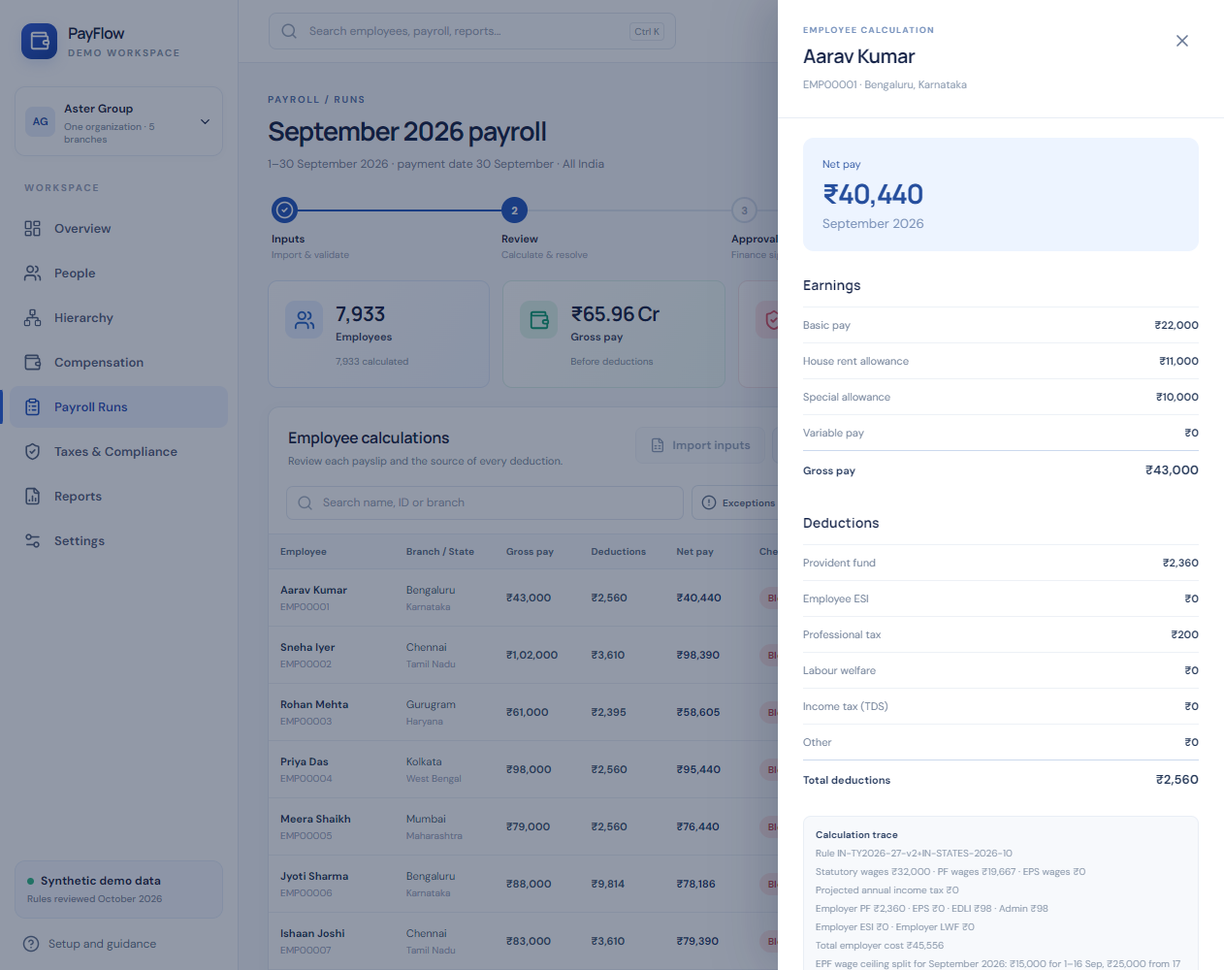
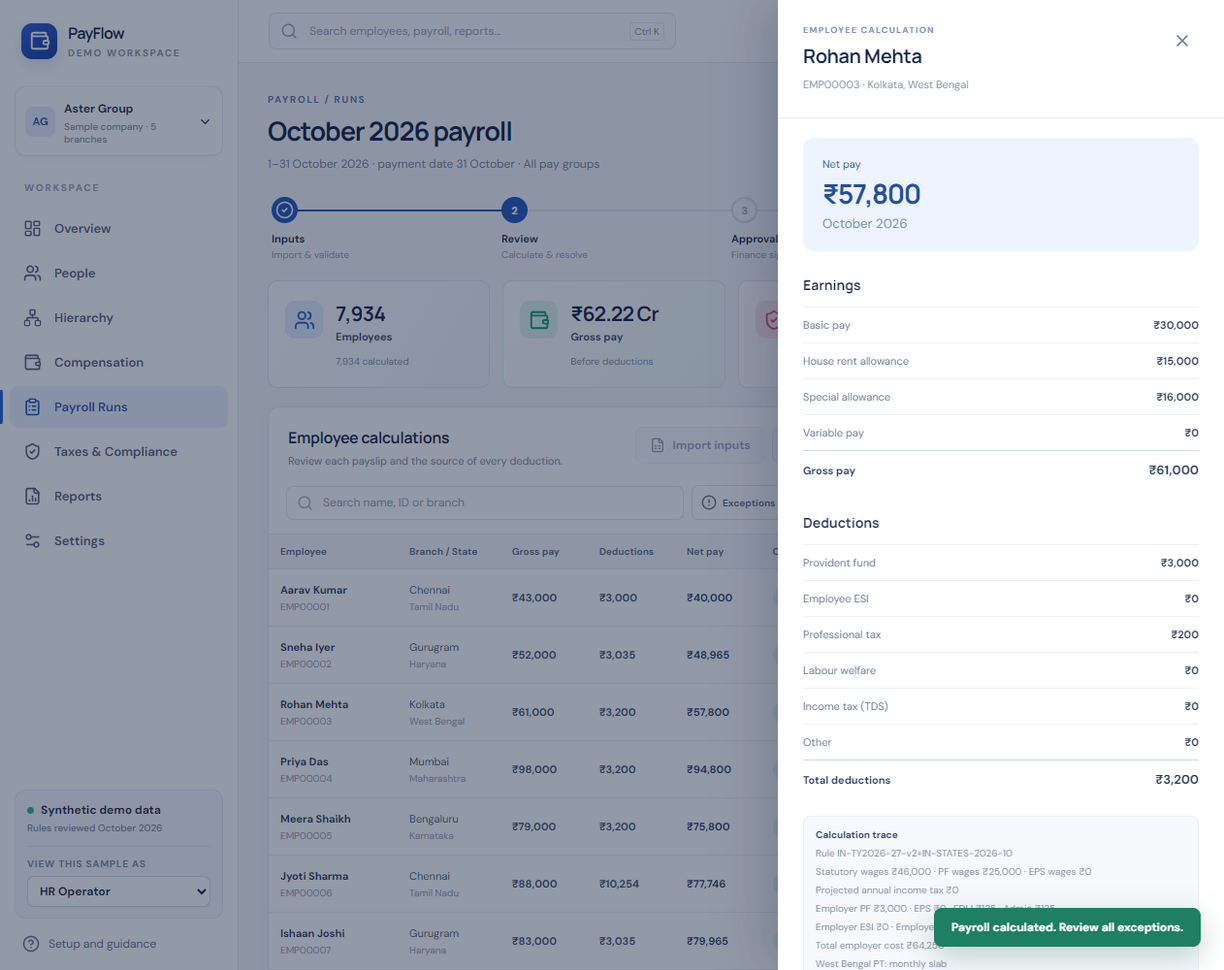
docs: document Phase 2 and the pay period compliance rules

diff --git a/README.md b/README.md
@@ -2,10 +2,11 @@
 
 [![CI](https://github.com/mehulp007/PayFlow/actions/workflows/ci.yml/badge.svg)](https://github.com/mehulp007/PayFlow/actions/workflows/ci.yml)
 
-PayFlow is a full-stack payroll application for Indian companies. It covers the whole monthly cycle: employee
-records and hierarchy, CSV input import with validation, salary calculation (income tax, EPF, ESI and state
-deductions), exception review, maker-checker approval, payslips, statutory preparation reports and an audit trail.
-Employees get a self-service portal for their own record, tax-regime choice and payslip.
+PayFlow is a multi-tenant payroll application for Indian companies. Anyone can sign up and create an organization —
+empty, or pre-filled with a generated sample company — and run the whole monthly cycle: employee records and
+hierarchy, salary revisions, pay periods, CSV input import, calculation (income tax, EPF, ESI and state deductions),
+exception review, maker-checker approval, payment, period close, payslips, statutory preparation reports and an
+audit trail. Employees get a self-service portal for their own record, tax-regime choice and payslips.
 
 > **Synthetic data only.** PayFlow is a portfolio project. Its rules were reviewed against Indian regulations in
 > October 2026, but it is not a certified payroll product and its exports are not government or bank upload
@@ -22,9 +23,94 @@ PayFlow is being rebuilt from its first prototype in phases. Each phase is commi
 | 0 · Baseline & cleanup     | Rebrand to PayFlow, remove hosting/mobile code, run locally with zero setup                                                                                            | ✅ Done |
 | Compliance review          | Rules updated to October 2026 regulations: Labour Codes wage definition, EPF ₹25,000 ceiling with the September split, ESI period rules, state PT/LWF                  | ✅ Done |
 | 1 · Engineering foundation | Shared Zod schemas, Drizzle migrations, modular Fastify API, React Router + TanStack Query, readable components and CSS, unit/integration/end-to-end tests, ESLint, CI | ✅ Done |
-| 2 · Multi-tenant sandbox   | Sign up and create an organization, start empty or load a sample company, tenant isolation, invitations, any pay period, salary revisions, state rule tables           | ⏳ Next |
-| 3 · Features               | Payslip PDFs and history, tax-regime calculator, analytics dashboard, leave & attendance, notifications, Ctrl-K palette, dark mode, audit log page                     | Planned |
+| 2 · Multi-tenant sandbox   | Sign-up and onboarding, sample companies with history, tenant isolation, invitations, pay periods with send-back/pay/close, salary revisions, exits, year-to-date TDS  | ✅ Done |
+| 3 · Features               | Payslip PDFs and history, tax-regime calculator, analytics dashboard, leave & attendance, notifications, Ctrl-K palette, dark mode, audit log page                     | ⏳ Next |
 | 4 · Docs polish            | Architecture walkthrough and final screenshots                                                                                                                         | Planned |
+
+## Quick start
+
+Requires **Node.js 24** and npm. Nothing else: the database is embedded.
+
+```bash
+npm install
+npm run dev
+```
+
+Open <http://127.0.0.1:5173> and choose one of three ways in:
+
+1. **Explore a sample company.** Sign up, pick "Load a sample company", and you get 240 fictional people with
+   April–September 2026 approved and October open. Use **View this sample as** in the sidebar to act as HR, Payroll,
+   Finance, Auditor or the employee — enough to try maker-checker on your own.
+2. **Create an organization.** Sign up and start empty: add branches, people and your first pay period, then invite
+   your team by email.
+3. **Use the built-in Aster Group.** A large sample company (8,420 people) created on first launch with six accounts
+   that have their own random passwords, written to `data/individual-demo-credentials.txt` (ignored by Git).
+
+| Aster Group username | Role                                                     |
+| -------------------- | -------------------------------------------------------- |
+| `admin`              | Organization admin: accounts, branches, reset the sample |
+| `hr`                 | HR operator: people, hierarchy, payroll preparation      |
+| `payroll`            | Payroll operator: import and calculate                   |
+| `finance`            | Finance approver: approve, send back, pay and close      |
+| `auditor`            | Read-only review and reports                             |
+| `employee`           | Employee self-service for `EMP00001`                     |
+
+To start over, stop the app and delete the `data/` folder.
+
+## Try the payroll journey
+
+1. Sign in as `hr` (Aster Group) and open the October run from **Payroll Runs**. Import
+   [sample inputs](samples/payroll-inputs.csv) or use the preloaded ones, then **Calculate**.
+2. Twelve new joiners have no bank details, which blocks submission. Verify them from **Needs attention** and
+   recalculate. Open any row for its calculation trace: statutory wages, employer cost and the rules applied.
+3. **Send for approval**. As `finance`, either **send it back with a note** (the payroll team fixes and resubmits)
+   or approve it — the preparer can never approve their own run.
+4. Export the demo bank file and preparation reports, **simulate reconciliation**, then **close the period**.
+5. Open **New pay run** for November: the payment date must be before the 7th of the next month, and November's tax
+   projection uses October's approved pay.
+6. In **People** or **Compensation**, open a person to edit their record, add a salary revision effective from a
+   future month, or record an exit (the exit month is pro-rated and flagged for two-day final settlement).
+7. Sign in as `employee` to see only your own record, choose a tax regime (while the run is a draft) and view your
+   latest approved payslip.
+
+## Features
+
+- **Organizations**: public sign-up with a three-step wizard; branches (which decide state rules) and pay groups;
+  every table carries an organization ID and every query is scoped by it — another organization's records are
+  simply not found.
+- **Sample companies**: 240 generated people with realistic names, an 8-level hierarchy, salary history with an
+  April increment, ESI-covered support staff, six approved and closed months and an open October run. The owner can
+  switch roles with an audited **View as**; a reset regenerates everything.
+- **Accounts**: invitations by email and role through a one-time link (the invitee sets their own password), admin
+  password resets with a forced change, scrypt-hashed passwords, hashed 12-hour session tokens, login and sign-up
+  rate limits and lockout.
+- **Pay periods**: create a run for any month and pay group; draft → calculated → approval pending → approved →
+  paid → closed, with Finance send-back. Approved lines are frozen. Joiners and leavers are pro-rated by calendar
+  days. Monthly TDS uses actual year-to-date salary and tax from approved runs.
+- **People**: directory, hierarchy explorer, editable records, effective-dated salary revisions, exits with
+  reassignment checks.
+- **Calculation engine** (rule version `IN-TY2026-27-v2`, reviewed October 2026):
+  - Income-tax Act, 2025: both regimes, the ₹60,000 rebate with marginal relief, surcharge and cess, monthly TDS
+    under s. 392.
+  - Labour Codes "wages" with the 50% exclusion cap; Code on Wages payment deadline and exit settlement reminder.
+  - EPF/EPS/EDLI: the ₹25,000 ceiling from 17 September 2026 with the EPFO day-split for September, EPS exit at 58,
+    and admin charges.
+  - ESI: contribution-period continuation and the ₹176/day exemption.
+  - Professional tax and labour welfare fund for Karnataka, Maharashtra, Tamil Nadu, West Bengal and Haryana,
+    shown per organization on the compliance page.
+
+## Interface
+
+| Sign-up                                                      | Pay runs                                                 |
+| ------------------------------------------------------------ | -------------------------------------------------------- |
+| ![Sign-up](docs/screenshots/signup.png)                      | ![Pay runs](docs/screenshots/pay-runs.png)               |
+| **Calculation trace**                                        | **Salary history**                                       |
+| ![Calculation trace](docs/screenshots/calculation-trace.png) | ![Salary history](docs/screenshots/salary-history.png)   |
+| **State rules**                                              | **Employee portal**                                      |
+| ![State rules](docs/screenshots/compliance.png)              | ![Employee portal](docs/screenshots/employee-portal.png) |
+
+More: [sign-in](docs/screenshots/login.png) · [overview](docs/screenshots/hr-overview.png) ·
+[hierarchy](docs/screenshots/hierarchy.png) · [settings](docs/screenshots/settings.png)
 
 ## Architecture
 
@@ -34,7 +120,7 @@ flowchart LR
     Web["apps/web<br/>React 19 · React Router · TanStack Query"]
   end
   subgraph Node["Node.js 24"]
-    API["apps/api<br/>Fastify 5 · Zod validation"]
+    API["apps/api<br/>Fastify 5 · Zod validation<br/>organization-scoped modules"]
     Core["packages/core<br/>payroll and tax rules"]
     DB["Drizzle ORM + migrations"]
   end
@@ -48,100 +134,38 @@ flowchart LR
   Shared -.-> API
 ```
 
-| Workspace         | Responsibility                                                                                                                                                                       |
-| ----------------- | ------------------------------------------------------------------------------------------------------------------------------------------------------------------------------------ |
-| `packages/core`   | Pure calculation library in integer paise: income tax, Labour Codes wages, EPF/EPS/EDLI, ESI, state PT/LWF. No I/O.                                                                  |
-| `packages/shared` | One source of truth used by both apps: roles and the permission matrix, Zod request schemas and response types.                                                                      |
-| `apps/api`        | Fastify app built by `buildApp()`. Feature modules (`auth`, `employees`, `runs`) each have routes and a service; a preHandler resolves the session and enforces permissions.         |
-| `apps/web`        | React app with real URLs (`/overview`, `/payroll`, `/hierarchy`, `/me`, …), a TanStack Query data layer, shared UI components and design tokens in CSS split by area (`src/styles`). |
+| Workspace         | Responsibility                                                                                                                                                                                     |
+| ----------------- | -------------------------------------------------------------------------------------------------------------------------------------------------------------------------------------------------- |
+| `packages/core`   | Pure calculation library in integer paise: income tax, Labour Codes wages, EPF/EPS/EDLI, ESI, state PT/LWF. No I/O.                                                                                |
+| `packages/shared` | One source of truth used by both apps: roles and the permission matrix, Zod request schemas and response types.                                                                                    |
+| `apps/api`        | Fastify app built by `buildApp()`. Modules for `organizations` (sign-up, sample companies, view-as), `auth` (sessions, invitations), `employees` and `runs`; every service takes the organization. |
+| `apps/web`        | React app with real URLs (`/overview`, `/payroll/:runId`, `/signup`, `/invite`, `/me`, …), a TanStack Query data layer, shared UI components and design tokens in CSS split by area.               |
+
+**Tenancy.** Each request's session resolves to one account in one organization. Services receive that
+organization's ID and filter every query by it, and employee codes (`EMP00001`) are unique only within an
+organization. Isolation is covered by integration tests that try to read and act on another organization's runs,
+people, accounts and exports.
 
 **Database.** The schema lives in [`apps/api/src/db/schema.ts`](apps/api/src/db/schema.ts). SQL migrations are
-generated with `npm run db:generate -w @payflow/api` and applied automatically at start-up. PGlite (real
-PostgreSQL compiled to WebAssembly) runs inside the API process, so there is nothing to install; set
-`DATABASE_URL` to use a PostgreSQL server instead.
-
-## Quick start
-
-Requires **Node.js 24** and npm. Nothing else: the database is embedded.
-
-```bash
-npm install
-npm run dev
-```
-
-Open <http://127.0.0.1:5173>. The API runs on port 4000. On first launch it creates a synthetic company
-("Aster Group", 8,420 fictional people across five Indian states) in `data/db`.
-
-### Sign in
-
-Six accounts are created on first launch, each with its own random password. The passwords are written to
-`data/individual-demo-credentials.txt` on your machine (ignored by Git).
-
-| Username   | Role                                                 |
-| ---------- | ---------------------------------------------------- |
-| `admin`    | Organization admin: manage accounts, reset demo data |
-| `hr`       | HR operator: people, hierarchy, payroll preparation  |
-| `payroll`  | Payroll operator: import and calculate               |
-| `finance`  | Finance approver: approve and reconcile              |
-| `auditor`  | Read-only review and reports                         |
-| `employee` | Employee self-service for `EMP00001`                 |
-
-To start over, stop the app and delete the `data/` folder.
-
-## Try the payroll journey
-
-1. Sign in as `hr` and open **Payroll Runs**. Import [sample inputs](samples/payroll-inputs.csv) or use the
-   preloaded ones, then **Calculate**.
-2. Twelve employees have missing bank details, which block submission. Verify them from the **Needs attention**
-   panel and recalculate. Open any row to see its calculation trace and the rules applied.
-3. **Send for approval**, then sign in as `finance` and approve. The preparer can never approve their own run.
-4. Export the demo bank file and preparation reports, then simulate reconciliation.
-5. Sign in as `employee` to see only your own record, choose a tax regime (while the run is in draft) and view the
-   payslip after approval.
-6. Open **Hierarchy** to filter people by employment type, position level, department and state, and add a person.
-
-## Features
-
-- **Calculation engine** (rule version `IN-TY2026-27-v2`, reviewed October 2026):
-  - Income-tax Act, 2025: both regimes, the ₹60,000 rebate with marginal relief, surcharge and cess, and monthly
-    TDS (s. 392) from a year-to-date projection.
-  - Labour Codes "wages" with the 50% exclusion cap.
-  - EPF/EPS/EDLI: the ₹25,000 ceiling from 17 September 2026 with the EPFO day-split for September, EPS exit at
-    58, and admin charges.
-  - ESI: contribution-period continuation and the ₹176/day exemption.
-  - Professional tax and labour welfare fund slabs for Karnataka, Maharashtra, Tamil Nadu, West Bengal and Haryana.
-  - The employer cost of every line.
-- **Payroll controls**: CSV validation with preview, inputs locked after calculation, blocking exceptions,
-  separate finance approval, and an audit event for every key action.
-- **People**: a searchable directory, an 8-level position hierarchy with five employment types, and contractors
-  kept outside payroll.
-- **Access**: password sessions (scrypt hashing, hashed tokens, 12-hour expiry), a shared role-permission matrix,
-  login rate limiting and lockout, admin-issued one-time passwords and a forced first-password change.
-
-## Interface
-
-| Sign-in                                                      | Overview                                                 |
-| ------------------------------------------------------------ | -------------------------------------------------------- |
-| ![Sign-in](docs/screenshots/login.png)                       | ![Overview](docs/screenshots/hr-overview.png)            |
-| **Calculation trace**                                        | **Employee portal**                                      |
-| ![Calculation trace](docs/screenshots/calculation-trace.png) | ![Employee portal](docs/screenshots/employee-portal.png) |
-
-![Hierarchy](docs/screenshots/hierarchy.png)
+generated with `npm run db:generate -w @payflow/api` and applied automatically at start-up. PGlite (real PostgreSQL
+compiled to WebAssembly) runs inside the API process, so there is nothing to install; set `DATABASE_URL` to use a
+PostgreSQL server instead.
 
 ## Testing
 
-| Command             | What it checks                                                                                                       |
-| ------------------- | -------------------------------------------------------------------------------------------------------------------- |
-| `npm test`          | 30 statutory rule cases in the calculation library, and 23 API integration tests against an in-memory database       |
-| `npm run e2e`       | Playwright journey in a real browser: HR prepares, Finance approves and reconciles, the employee views their payslip |
-| `npm run typecheck` | TypeScript across all four workspaces                                                                                |
-| `npm run lint`      | ESLint (TypeScript and React hooks rules)                                                                            |
-| `npm run format`    | Prettier                                                                                                             |
+| Command             | What it checks                                                                                                                                                 |
+| ------------------- | -------------------------------------------------------------------------------------------------------------------------------------------------------------- |
+| `npm test`          | 32 statutory rule cases in the calculation library, and 34 API integration tests against an in-memory database                                                 |
+| `npm run e2e`       | Two Playwright journeys in a real browser: a run prepared, sent back, approved, paid and closed across roles; sign-up with a sample company and role switching |
+| `npm run typecheck` | TypeScript across all four workspaces                                                                                                                          |
+| `npm run lint`      | ESLint (TypeScript and React hooks rules)                                                                                                                      |
+| `npm run format`    | Prettier                                                                                                                                                       |
 
-The API tests boot the real app with `buildApp()` on PGlite in memory, covering sessions and lockout, the
-temporary-password gate, role permissions, employee self-service limits, hierarchy validation, imports, the
-exception gate, maker-checker approval, exports and demo reset. Locally, `npm run e2e` uses Microsoft Edge; CI
-installs Chromium. GitHub Actions runs every check on each push.
+The API tests boot the real app with `buildApp()` on PGlite in memory. They cover sign-up validation, sample
+history and year-to-date tax, empty organizations, tenant isolation, invitations, view-as and resets, sessions and
+lockout, role permissions, employee self-service limits, salary revisions, exits and proration, imports, the
+exception gate, send-back, maker-checker, payment, close, payment deadlines and exports. Locally, `npm run e2e` uses
+Microsoft Edge; CI installs Chromium. GitHub Actions runs every check on each push.
 
 ## Scripts
 

diff --git a/docs/compliance-notes.md b/docs/compliance-notes.md
@@ -11,15 +11,15 @@ against the official portals before relying on any figure.
 
 ### Income tax: Income-tax Act, 2025 (in force from 1 April 2026), tax year 2026-27
 
-| Item                 | Rule                                                                                                                                                                                                                                                                                                              |
-| -------------------- | ----------------------------------------------------------------------------------------------------------------------------------------------------------------------------------------------------------------------------------------------------------------------------------------------------------------- |
-| New regime (default) | Nil to ₹4L · 5% to ₹8L · 10% to ₹12L · 15% to ₹16L · 20% to ₹20L · 25% to ₹24L · 30% above                                                                                                                                                                                                                        |
-| Old regime           | Nil to ₹2.5L (₹3L at 60+, ₹5L at 80+) · 5% to ₹5L · 20% to ₹10L · 30% above                                                                                                                                                                                                                                       |
-| Standard deduction   | ₹75,000 new regime, ₹50,000 old regime                                                                                                                                                                                                                                                                            |
-| Rebate               | New: up to ₹60,000 for taxable income up to ₹12L, with marginal relief just above. Old: up to ₹12,500 up to ₹5L                                                                                                                                                                                                   |
-| Surcharge and cess   | 10% / 15% / 25% / 37% (new regime capped at 25%) with marginal relief; 4% health and education cess                                                                                                                                                                                                               |
-| Monthly TDS (s. 392) | Annual tax is projected from salary paid earlier in the year, this month's actual pay and regular pay for the remaining months. Months before joining are not counted, and this month's loss of pay is not extrapolated. Tax already deducted is subtracted, and the balance is spread over the remaining months. |
-| Returns              | Quarterly salary TDS statement is **Form 138** (replaces 24Q); the annual certificate is **Form 130** (replaces Form 16)                                                                                                                                                                                          |
+| Item                 | Rule                                                                                                                                                                                                                                                                                                                                                                                                                             |
+| -------------------- | -------------------------------------------------------------------------------------------------------------------------------------------------------------------------------------------------------------------------------------------------------------------------------------------------------------------------------------------------------------------------------------------------------------------------------- |
+| New regime (default) | Nil to ₹4L · 5% to ₹8L · 10% to ₹12L · 15% to ₹16L · 20% to ₹20L · 25% to ₹24L · 30% above                                                                                                                                                                                                                                                                                                                                       |
+| Old regime           | Nil to ₹2.5L (₹3L at 60+, ₹5L at 80+) · 5% to ₹5L · 20% to ₹10L · 30% above                                                                                                                                                                                                                                                                                                                                                      |
+| Standard deduction   | ₹75,000 new regime, ₹50,000 old regime                                                                                                                                                                                                                                                                                                                                                                                           |
+| Rebate               | New: up to ₹60,000 for taxable income up to ₹12L, with marginal relief just above. Old: up to ₹12,500 up to ₹5L                                                                                                                                                                                                                                                                                                                  |
+| Surcharge and cess   | 10% / 15% / 25% / 37% (new regime capped at 25%) with marginal relief; 4% health and education cess                                                                                                                                                                                                                                                                                                                              |
+| Monthly TDS (s. 392) | Annual tax is projected from salary actually paid earlier in the tax year (from approved runs), this month's actual pay and regular pay for the remaining months. TDS already deducted in those runs is subtracted and the balance is spread over the remaining months, so earlier under- or over-deduction is corrected going forward. Months before joining are not counted, and this month's loss of pay is not extrapolated. |
+| Returns              | Quarterly salary TDS statement is **Form 138** (replaces 24Q); the annual certificate is **Form 130** (replaces Form 16)                                                                                                                                                                                                                                                                                                         |
 
 ### Wages: Code on Wages, 2019 and Code on Social Security, 2020 (in force from 21 November 2025)
 
@@ -59,19 +59,41 @@ against the official portals before relying on any figure.
 | West Bengal | ₹110 / ₹130 / ₹150 / ₹200 monthly slabs above ₹10,000                                          | ₹3 + ₹30, June and December                                      |
 | Haryana     | Not levied                                                                                     | 0.2% of wages up to ₹35 (from Jan 2026), employer twice, monthly |
 
-States without a reviewed rule are **blocked** until rules are added. Maharashtra employees without a recorded
-gender get a review warning, because the women's exemption cannot be applied.
+States without a reviewed rule are **blocked** until rules are added: branches can only be created in the five
+states above, and each organization's compliance page lists the rules for its own states. The rule pack is
+maintained centrally rather than edited per organization, so no tenant can drift from the reviewed rates.
+Maharashtra employees without a recorded gender get a review warning, because the women's exemption cannot be
+applied.
+
+### Pay periods and employment events: Code on Wages, 2019, s. 17
+
+| Item                  | Rule                                                                                                                                                                                                 |
+| --------------------- | ---------------------------------------------------------------------------------------------------------------------------------------------------------------------------------------------------- |
+| Payment deadline      | Monthly wages must be paid before the 7th day of the following month (s. 17(1)). A run's payment date must fall between the first day of the month and the 7th of the next, or it cannot be created. |
+| One payment per month | A month cannot be paid twice for the same people: overlapping runs (same month, overlapping pay groups) are refused.                                                                                 |
+| Joining and leaving   | Calendar days before joining or after the last working day are unpaid, so the month is pro-rated automatically.                                                                                      |
+| Final settlement      | Wages due on exit, including on resignation, must be paid within two working days (s. 17(2)). Lines for a leaver carry a warning to settle separately from the monthly run.                          |
+| Salary revisions      | Effective-dated, starting on the first of a month after the last approved period. Approved runs are never recalculated.                                                                              |
+| Reviewed tax year     | Periods outside tax year 2026–27 carry a warning that rates must be verified for that year.                                                                                                          |
 
 ## Known limitations
 
 - Tamil Nadu PT uses six times the current month's gross as the half-yearly income, and slabs vary by local
   body; the Chennai corporation slab is used.
-- Salary paid and tax deducted earlier in the year are inputs. Until the app tracks multiple months, they default
-  to the regular salary since joining with TDS deducted evenly, so the current month carries one month's share.
+- Year-to-date figures come from runs approved in PayFlow. For an organization without approved history in the tax
+  year (for example a new organization starting mid-year), earlier months are assumed to have been paid at the
+  regular salary with TDS deducted evenly. Salary from a previous employer is an input (Form 12B in practice).
+- Mid-month salary revisions are not supported (revisions start on the first of a month), and arrears for approved
+  months are not modelled.
+- Final settlement within two working days is flagged, not computed: leave encashment, notice pay and gratuity on
+  exit are outside the monthly run.
 - Not yet modelled: HRA exemption and old-regime declarations in detail, perquisites, employer PF above ₹7.5L,
-  arrears, gratuity accrual, minimum-wage checks, mid-month joins/exits, and the ESI disability ceiling (₹25,000).
+  gratuity accrual, minimum-wage checks, and the ESI disability ceiling (₹25,000).
 
 ## Sources
+
+- [Code on Wages, 2019, s. 17: time limit for payment of wages](https://www.advocatekhoj.com/library/bareacts/codeonwages/17.php) · [Two-working-day final settlement](https://www.livelaw.in/articles/two-working-days-code-wages-employee-final-settlement-552780)
+- [TDS on salary at the average rate under section 392](https://www.taxheal.com/tds-on-salary-under-section-392-of-income-tax-act.html)
 
 - [Budget 2026-27 tax slabs (unchanged from 2025-26)](https://www.bankbazaar.com/tax/income-tax-slabs.html)
 - [TDS on salary under section 392](https://www.taxheal.com/tds-on-salary-under-section-392-of-income-tax-act.html) · [Form 130 replaces Form 16](https://taxguru.in/income-tax/form-130-tds-certificate-salary-replacing-form-16.html)
